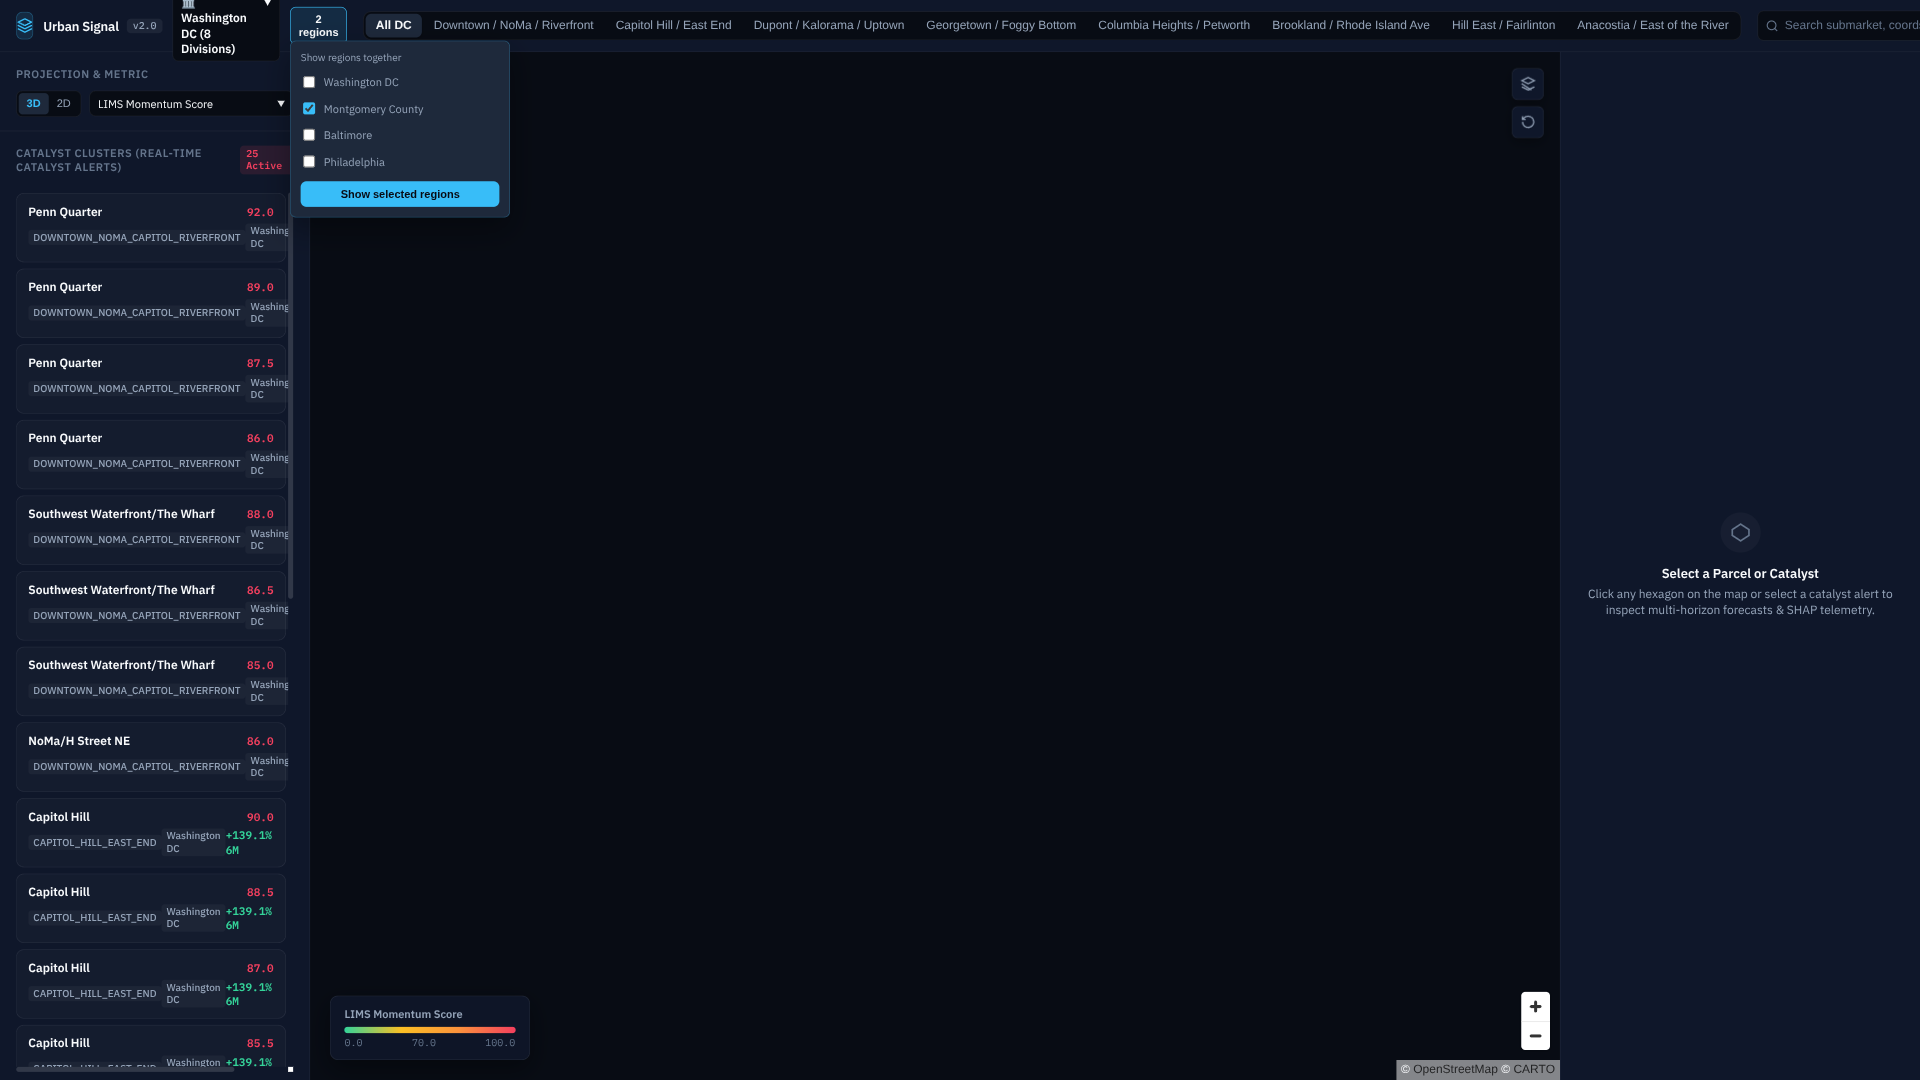
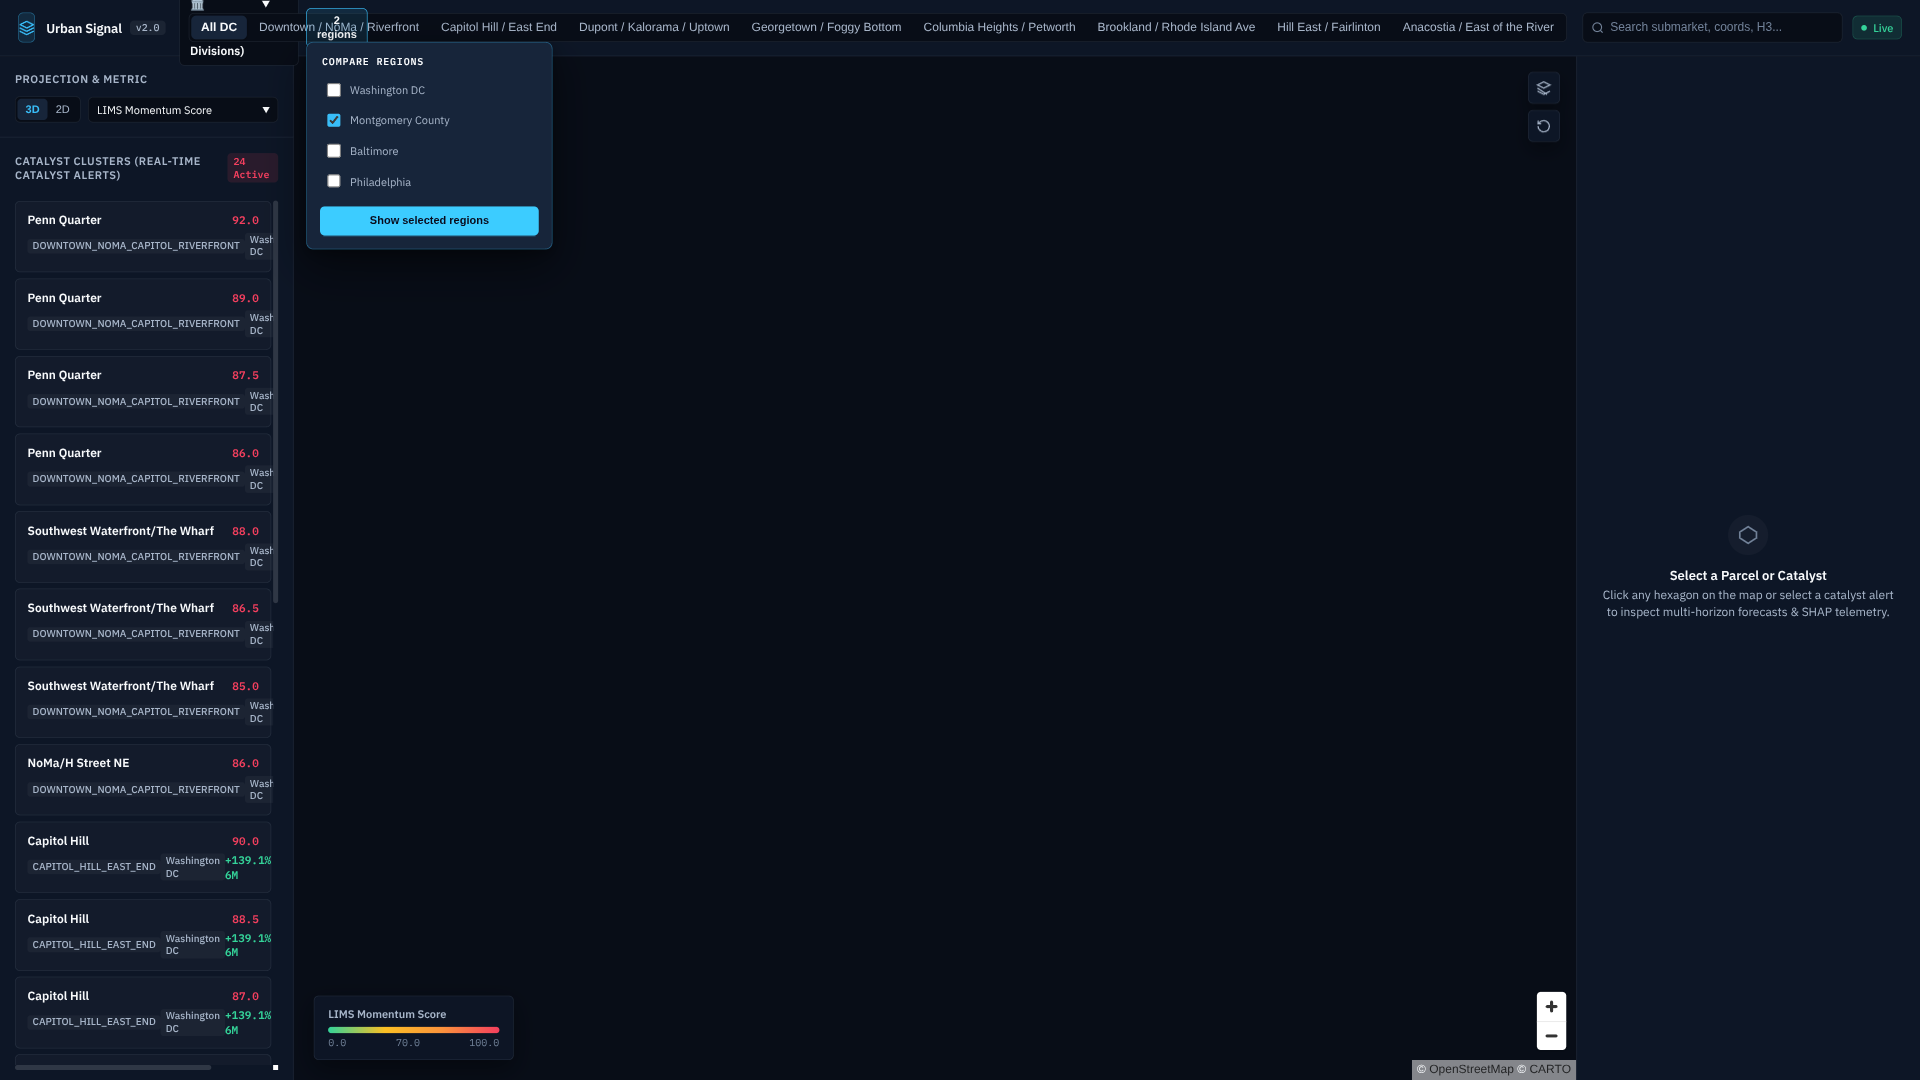
refactor(README.md, city_registry.py, carto_client.py, test_carto_client.py, test_producers_cincinnati.py, docs/dashboard.md): update column names and order handling

diff --git a/apps/api/src/spatial/city_registry.py b/apps/api/src/spatial/city_registry.py
@@ -948,7 +948,7 @@ REGISTRY: Dict[CityId, CityRegistration] = {
             FeedType.PERMITS: DatasetSpec(
                 endpoint=settings.socrata_cincinnati_permits_endpoint,
                 platform="socrata",
-                watermark_col="issued",
+                watermark_col="issueddate",
                 id_keys=["permit_number", "permitnumber", "pin", "id"],
                 topic=settings.topic_permits,
                 interval_seconds=300.0,
@@ -956,45 +956,45 @@ REGISTRY: Dict[CityId, CityRegistration] = {
                 extra={
                     "field_map": {
                         "job_id": ["permit_number", "permitnumber", "pin"],
-                        "issuance_date": ["issued"],
+                        "issuance_date": ["issueddate"],
                         "filing_date": ["applieddate"],
-                        "address_street": ["address"],
-                        "zipcode": ["zip"],
+                        "address_street": ["originaladdress1"],
+                        "zipcode": ["originalzip"],
                     }
                 },
             ),
             FeedType.COMPLAINTS_311: DatasetSpec(
                 endpoint=settings.socrata_cincinnati_311_endpoint,
                 platform="socrata",
-                watermark_col="created_on",
+                watermark_col="date_time_received",
                 id_keys=["service_request_id", "sr_number", "id"],
                 topic=settings.topic_311,
                 interval_seconds=180.0,
                 producer_key="311",
                 extra={
                     "field_map": {
-                        "incident_id": ["service_request_id", "sr_number"],
-                        "created_date": ["created_on"],
+                        "incident_id": ["sr_number"],
+                        "created_date": ["date_time_received"],
                         "incident_address": ["address"],
-                        "complaint_type": ["service_name", "service_request_type"],
+                        "complaint_type": ["sr_type_desc", "sr_type"],
                     }
                 },
             ),
             FeedType.SLA: DatasetSpec(
                 endpoint=settings.socrata_cincinnati_licenses_endpoint,
                 platform="socrata",
-                watermark_col="entered",
+                watermark_col="entered_date",
                 id_keys=["license_number", "license_id", "id"],
                 topic=settings.topic_sla,
                 interval_seconds=600.0,
                 producer_key="sla",
                 extra={
                     "field_map": {
-                        "license_id": ["license_number", "license_id"],
-                        "effective_date": ["entered"],
+                        "license_id": ["number_key", "uniqueid"],
+                        "effective_date": ["entered_date"],
                         "latitude": ["latitude"],
                         "longitude": ["longitude"],
-                        "status": ["status"],
+                        "status": ["data_status", "status_class"],
                     }
                 },
             ),

diff --git a/apps/api/src/producers/carto_client.py b/apps/api/src/producers/carto_client.py
@@ -143,6 +143,7 @@ class CartoClient:
         table: str,
         order_col: str,
         id_col: str,
+        direction: str,
         where_clause: Optional[str],
         limit: int,
         last_keyset: Optional[tuple],
@@ -153,8 +154,9 @@ class CartoClient:
             parts.append(f"({where_clause})")
         if last_keyset is not None:
             last_order, last_id = last_keyset
+            comparator = "<" if direction == "DESC" else ">"
             parts.append(
-                f"({order_col}, {id_col}) > ({self._quote(last_order)}, "
+                f"({order_col}, {id_col}) {comparator} ({self._quote(last_order)}, "
                 f"{self._quote(last_id)})"
             )
 
@@ -162,7 +164,7 @@ class CartoClient:
         select_sql = select or "*"
         return (
             f"SELECT {select_sql} FROM {table} WHERE {where_sql} "
-            f"ORDER BY {order_col} ASC, {id_col} ASC LIMIT {limit}"
+            f"ORDER BY {order_col} {direction}, {id_col} {direction} LIMIT {limit}"
         )
 
     def _request_json(self, url: str, params: Dict[str, Any]) -> Dict[str, Any]:
@@ -274,7 +276,12 @@ class CartoClient:
         auto-enables for date-named order columns (see module docstring).
         """
         sql_api_url, resolved_table = self._parse_endpoint(endpoint_url, table)
-        order_col = order_by or "updated_at"
+        order_spec = (order_by or "updated_at").strip()
+        order_parts = order_spec.rsplit(None, 1)
+        if len(order_parts) == 2 and order_parts[1].upper() in {"ASC", "DESC"}:
+            order_col, direction = order_parts[0], order_parts[1].upper()
+        else:
+            order_col, direction = order_spec, "ASC"
         id_column = id_col or self.id_col
 
         total_fetched = 0
@@ -291,6 +298,7 @@ class CartoClient:
                 table=resolved_table,
                 order_col=order_col,
                 id_col=id_column,
+                direction=direction,
                 where_clause=self._join_where(where_clause, order_col, exclude_sentinel_dates),
                 limit=fetch_limit,
                 last_keyset=last_keyset,

diff --git a/apps/api/tests/unit/test_producers_cincinnati.py b/apps/api/tests/unit/test_producers_cincinnati.py
@@ -37,9 +37,9 @@ def test_cincinnati_registers_three_verified_feeds_and_no_sales_feed():
         FeedType.COMPLAINTS_311,
         FeedType.SLA,
     }
-    assert REGISTRY[city].datasets[FeedType.PERMITS].watermark_col == "issued"
-    assert REGISTRY[city].datasets[FeedType.COMPLAINTS_311].watermark_col == "created_on"
-    assert REGISTRY[city].datasets[FeedType.SLA].watermark_col == "entered"
+    assert REGISTRY[city].datasets[FeedType.PERMITS].watermark_col == "issueddate"
+    assert REGISTRY[city].datasets[FeedType.COMPLAINTS_311].watermark_col == "date_time_received"
+    assert REGISTRY[city].datasets[FeedType.SLA].watermark_col == "entered_date"
     with pytest.raises(KeyError, match="no.*feed"):
         from src.spatial.city_registry import get_dataset
 
@@ -49,9 +49,9 @@ def test_cincinnati_registers_three_verified_feeds_and_no_sales_feed():
 @pytest.mark.parametrize(
     ("feed", "endpoint", "watermark"),
     [
-        (FeedType.PERMITS, "uhjb-xac9", "issued"),
-        (FeedType.COMPLAINTS_311, "gcej-gmiw", "created_on"),
-        (FeedType.SLA, "ehdi-ajku", "entered"),
+        (FeedType.PERMITS, "uhjb-xac9", "issueddate"),
+        (FeedType.COMPLAINTS_311, "gcej-gmiw", "date_time_received"),
+        (FeedType.SLA, "ehdi-ajku", "entered_date"),
     ],
 )
 def test_cincinnati_specs_pin_researched_socrata_sources(feed, endpoint, watermark):

diff --git a/apps/api/tests/unit/test_carto_client.py b/apps/api/tests/unit/test_carto_client.py
@@ -292,6 +292,23 @@ class TestKeysetPaging:
         assert "ORDER BY cartodb_id ASC, cartodb_id ASC" in q0
         assert "LIMIT 2" in q0
 
+    def test_descending_order_uses_descending_keyset_cursor(self):
+        pages = [
+            _page([_row(5, "2026-08-23"), _row(4, "2026-08-22")]),
+            _page([_row(3, "2026-08-21")]),
+        ]
+        ctx, calls = _patch_http(pages)
+        with ctx:
+            list(
+                CartoClient().paginate(
+                    CARTO_URI,
+                    order_by="permitissuedate DESC",
+                    batch_size=2,
+                )
+            )
+        assert "ORDER BY permitissuedate DESC, cartodb_id DESC" in calls["params"][0]["q"]
+        assert "(permitissuedate, cartodb_id) < ('2026-08-22', '4')" in calls["params"][1]["q"]
+
     def test_stops_on_empty_result(self):
         ctx, _ = _patch_http([_page([])])
         with ctx:

diff --git a/docs/dashboard.md b/docs/dashboard.md
@@ -42,12 +42,6 @@ comparison control:
 - [DC + Montgomery County map](screenshots/dashboard-dc-montgomery.png)
 - [Comparison menu state](screenshots/dashboard-comparison-menu.png)
 
-The current DC comparison captures intentionally preserve the dashboard's empty
-map state when no grid snapshot is available for the selected regions; they should
-not be read as evidence of rendered DC geometry. Use the NYC, Chicago, or San
-Francisco captures for a populated-map example until a fresh DC snapshot is
-available.
-
 The live API may have uneven snapshot coverage by city. A comparison remains valid
 when a selected region has no current snapshot: the UI preserves the selected region
 state and renders available grid/catalyst data without presenting another city's data

diff --git a/README.md b/README.md
@@ -22,14 +22,10 @@
 
 ### Comparison mode
 
-The comparison captures are shown at full reading width so the controls and map
-state remain legible in rendered documentation.
-
-**DC + Montgomery County comparison**
+The live dashboard supports layered region comparison through the **+ Compare**
+control. The populated DC + Montgomery County comparison is shown below.
 
 ![DC and Montgomery County comparison](docs/screenshots/dashboard-dc-montgomery.png)
-
-**Comparison control**
 
 ![Dashboard comparison menu](docs/screenshots/dashboard-comparison-menu.png)
 
